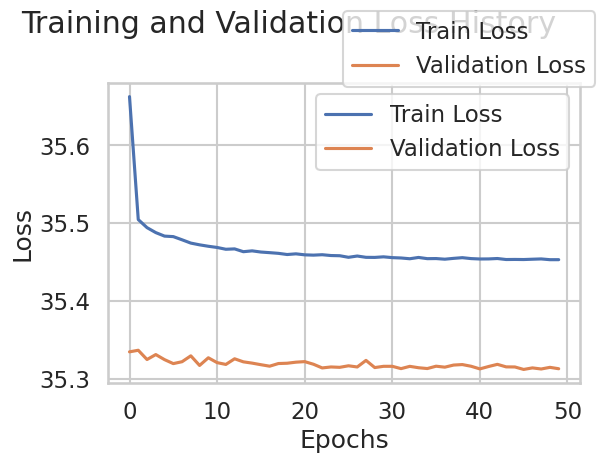
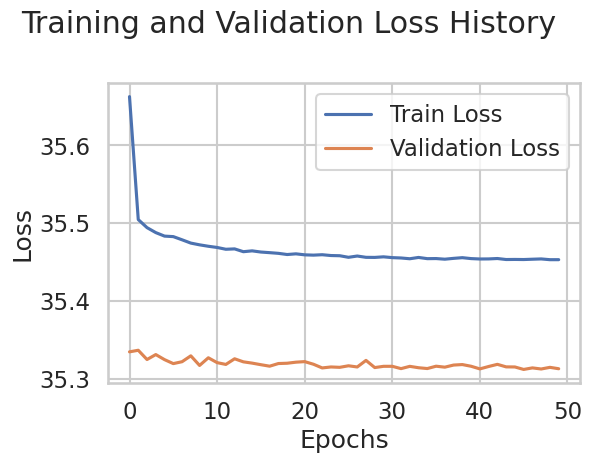
lets see the new files

diff --git a/train_models.py b/train_models.py
@@ -912,7 +912,6 @@ class SimpleNeuralNetwork(BaseModel):
         ax.set_xlabel("Epochs")
         ax.set_ylabel("Loss")
         fig.suptitle("Training and Validation Loss History")
-        fig.legend()
         plt.tight_layout()
         plt.savefig("simple_nn_history.png", bbox_inches="tight")
         plt.show()
@@ -1158,7 +1157,6 @@ class ComplexNeuralNetwork(BaseModel):
         ax.set_xlabel("Epochs")
         ax.set_ylabel("Loss")
         fig.suptitle("Training and Validation Loss History")
-        fig.legend()
         plt.tight_layout()
         plt.savefig("complex_nn_history.png", bbox_inches="tight")
         plt.show()
@@ -1621,7 +1619,6 @@ class ClientPaymentPredictionModel(BaseModel):
         ax.set_xlabel("Epochs")
         ax.set_ylabel("Loss")
         fig.suptitle("Training and Validation Loss History")
-        fig.legend()
         plt.tight_layout()
         plt.savefig("transformer_nn_history.png", bbox_inches="tight")
         plt.show()
